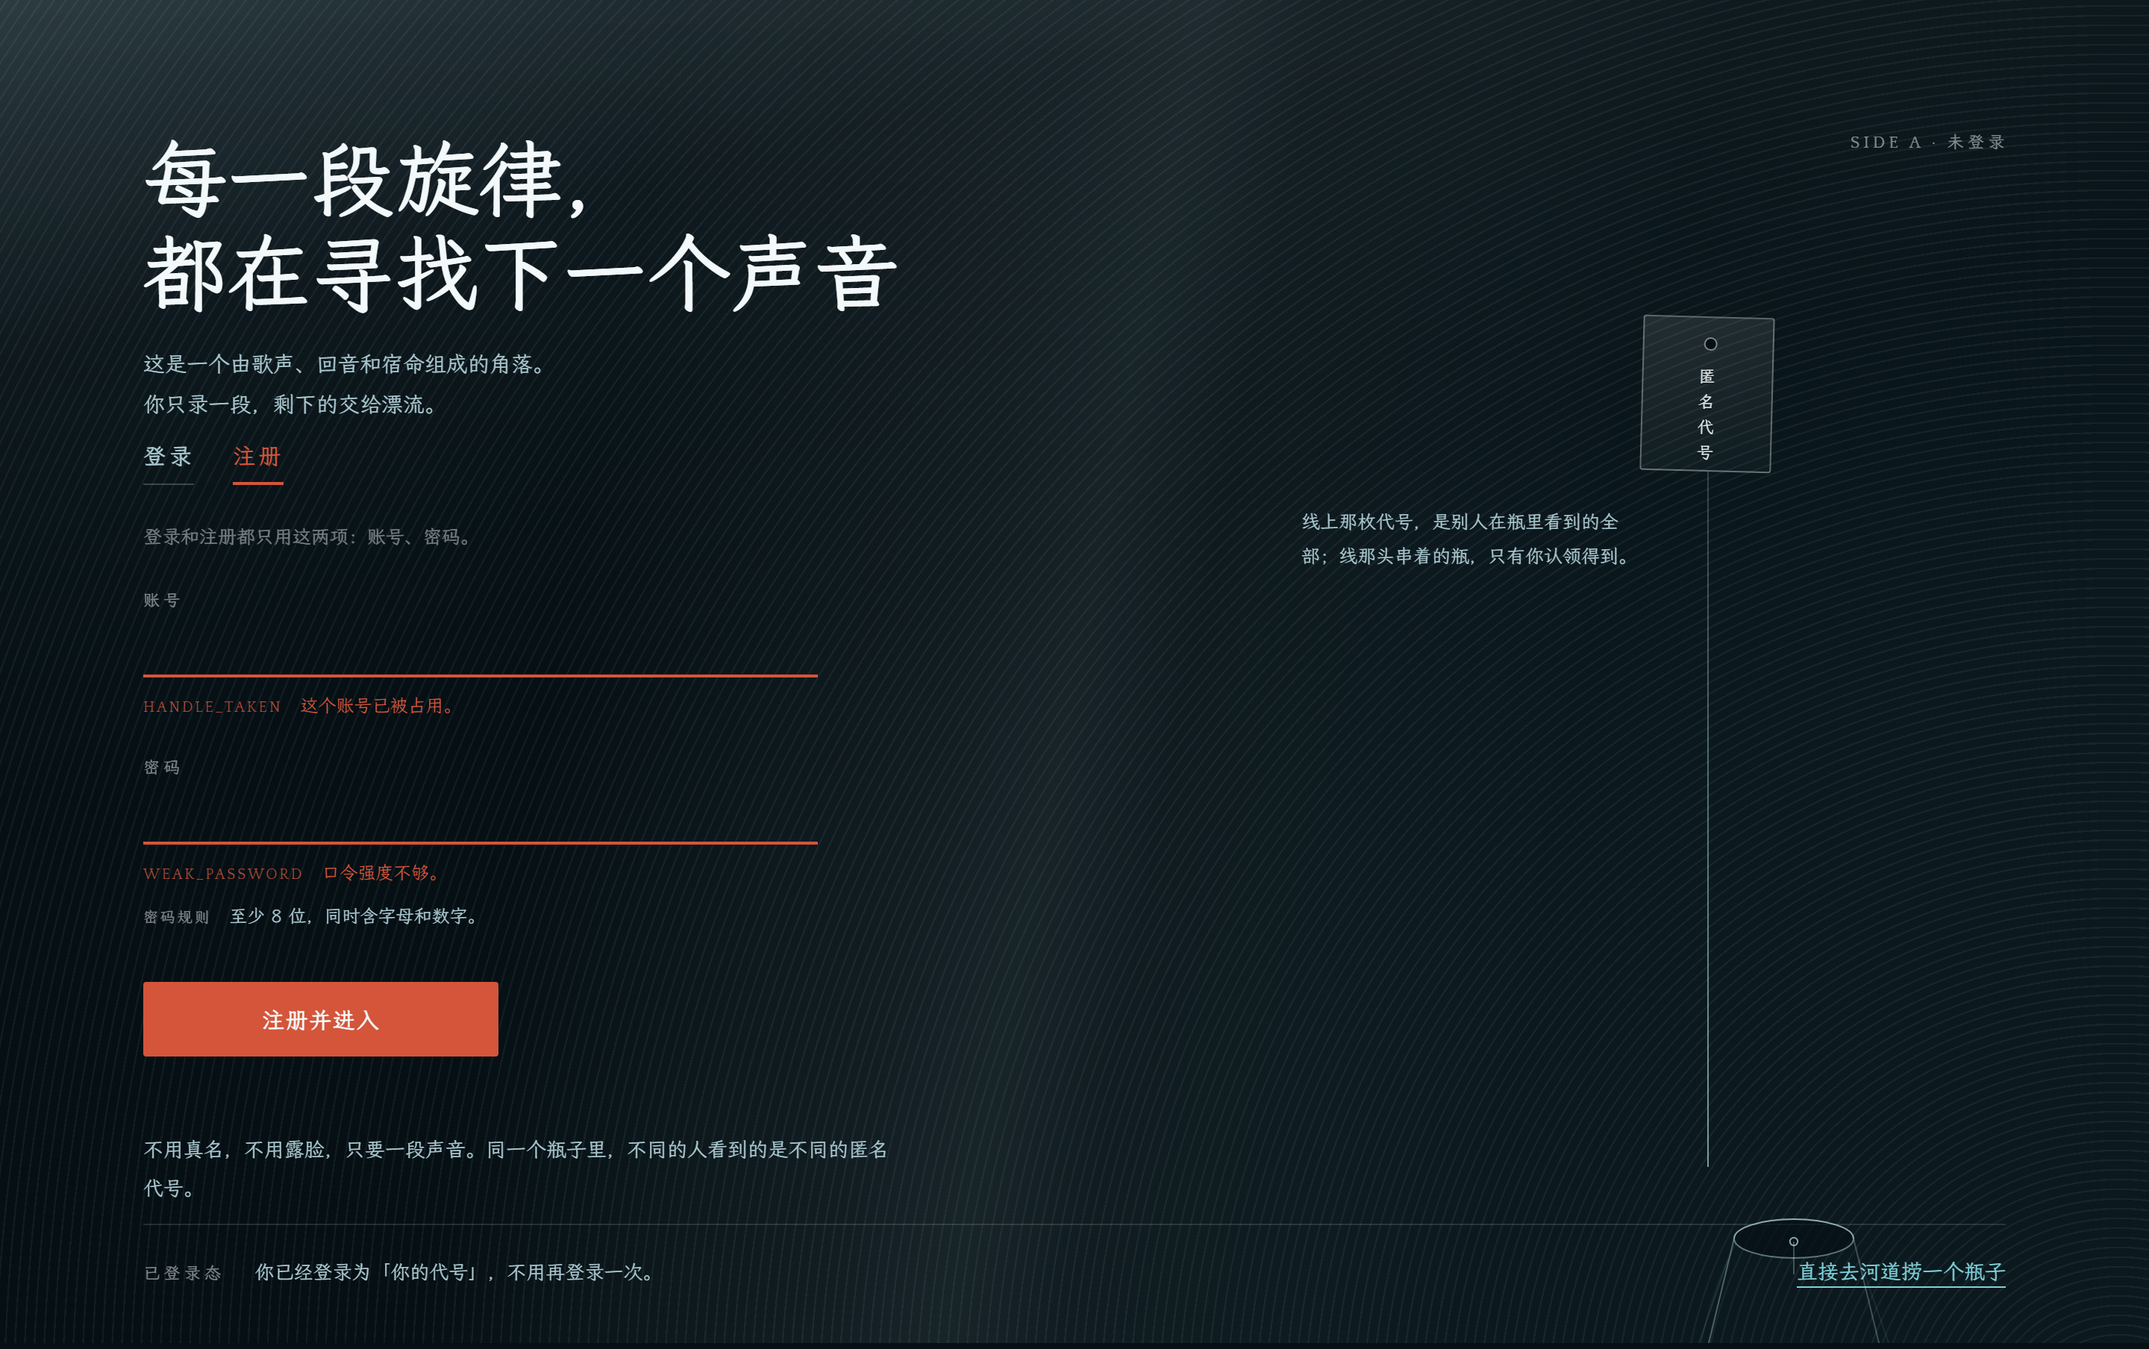
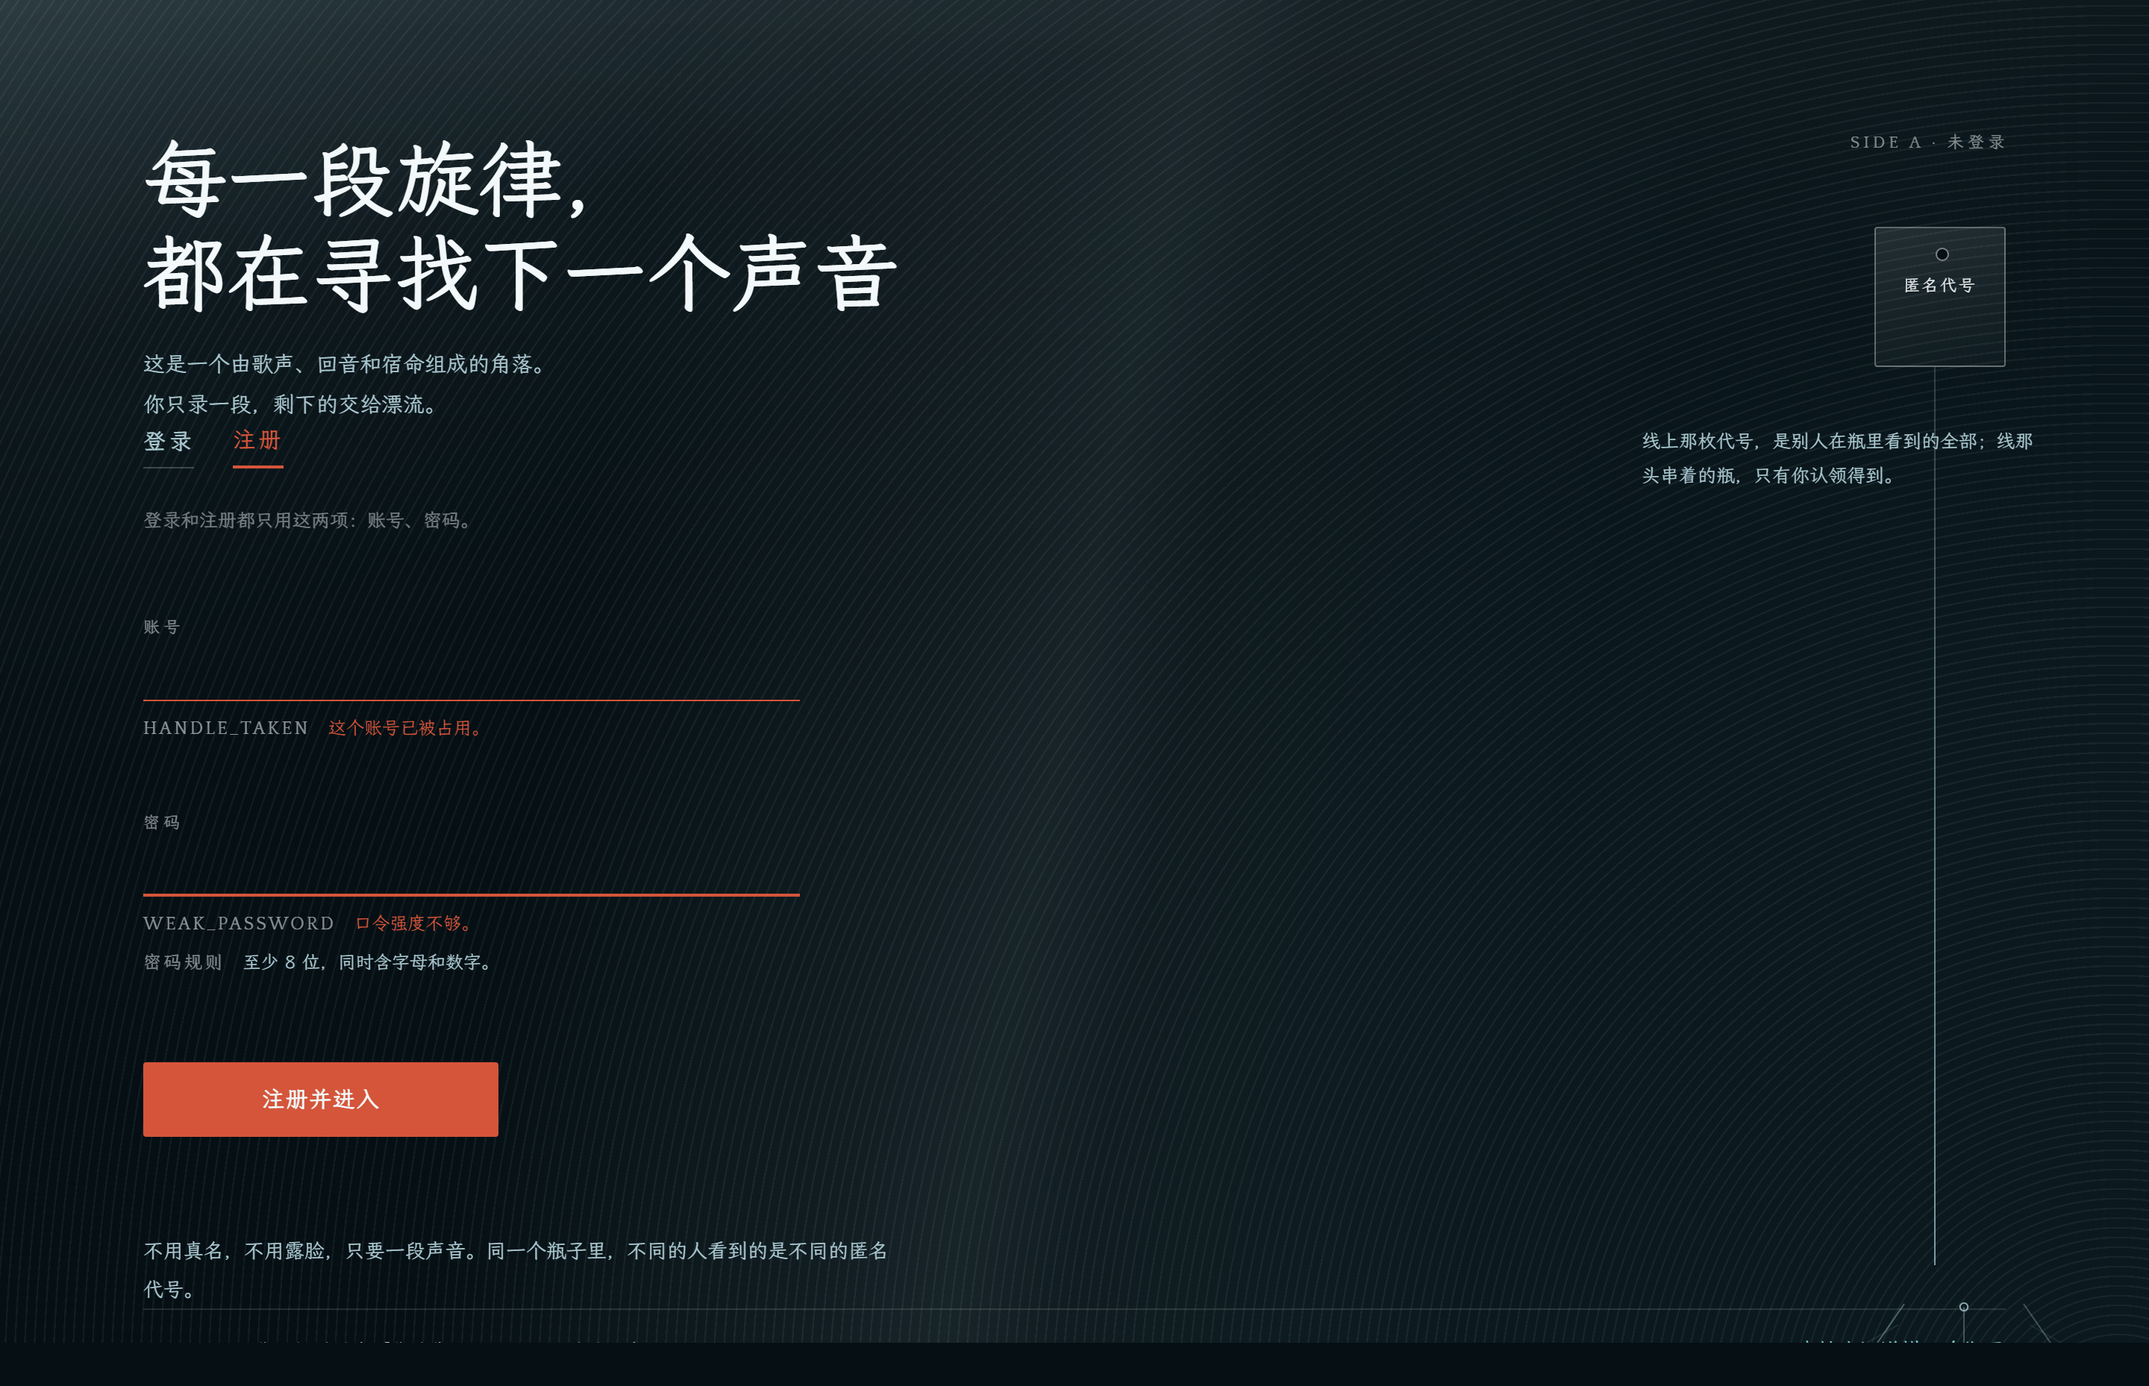
docs(design-explore): _AUDIT.md 补到当前状态（11 页逐页表 + 7 条决策 + 9 条遗留）+ 停止跟踪运行时锁文件
_AUDIT.md 是本次任务验收①（逐页对照）的落地物，之前停在『4 页对照』已失真。补入 11 页各自的装置与它编码什么信息、本阶段 7 条决策、以及 9 条未修但逐条可追溯的遗留（河道页三项冻结欠账、公海详情岸待做强、审核台两态同框、各页作者自陈并被 captain 认可的弱点）。

顺手修一个真问题：运行时锁文件 docs/ui-review/design-explore/.shoot.lock 被我早先的 git add -A 误提交进仓库（它是 _shoot.mjs 并发串行化用的临时文件，每次运行生成/删除）—— 现 git rm --cached 停止跟踪，并写进 .gitignore。

另记：写这份补录的脚本第一次跑挂了（SyntaxError）—— 因为我在 JS 模板串里直接放了未转义的 markdown 反引号。重写时逐行数组化，避免转义陷阱。

diff --git a/docs/ui-review/design-explore/p-login-record.html b/docs/ui-review/design-explore/p-login-record.html
@@ -42,50 +42,53 @@
       h1 { font-size:56px; font-weight:700; line-height:1.12; letter-spacing:.005em; }
       .lede { width:500px; margin-top:18px; font-size:14.5px; line-height:1.85; color:var(--muted); }
 
-      /* 装置：一根认领线。一枚代号牌坠在这根线的上端，线的另一头是只有你认领得到的东西 */
-      .device { position:absolute; left:968px; top:212px; width:300px; height:688px; }
-      .tag { position:absolute; left:132px; top:0; width:88px; height:104px; border-radius:2px;
-        border:1px solid rgba(243,249,250,.34); transform:rotate(1.5deg);
+      /* 装置：一根认领线。一枚代号牌坠在线头上，线的另一头是只有你认领得到的那只瓶 —— 
+         瓶只被画到画面的角上，读到的是"它在那儿"，不是"它长什么样"。 */
+      .device { position:absolute; left:1100px; top:152px; width:244px; height:748px; }
+      .tag { position:absolute; left:156px; top:0; width:88px; height:94px; border-radius:2px;
+        border:1px solid rgba(243,249,250,.34);
         background:linear-gradient(168deg, rgba(243,249,250,.11), rgba(243,249,250,.025)); }
       .tag::before { content:''; position:absolute; left:50%; top:13px; width:7px; height:7px; margin-left:-3.5px;
         border:1px solid rgba(243,249,250,.5); border-radius:50%; background:var(--ink); }
-      .tag b { position:absolute; left:50%; top:32px; width:16px; margin-left:-8px;
-        font-size:11px; font-weight:400; line-height:1.55; letter-spacing:.1em; text-align:center;
+      .tag b { position:absolute; left:50%; top:31px; width:88px; margin-left:-44px;
+        font-size:11px; font-weight:400; line-height:1.5; letter-spacing:.12em; text-align:center;
         color:rgba(243,249,250,.92); text-shadow:0 1px 0 rgba(5,15,20,.6); }
-      .thread { position:absolute; left:176px; top:104px; width:1px; height:466px;
-        background:linear-gradient(180deg, rgba(203,238,246,.2), rgba(203,238,246,.6)); }
-      .devnote { position:absolute; left:-96px; top:126px; width:236px; font-size:12.5px;
+      .thread { position:absolute; left:196px; top:94px; width:1px; height:602px;
+        background:linear-gradient(180deg, rgba(203,238,246,.18), rgba(203,238,246,.42) 40%, rgba(203,238,246,.6)); }
+      .devnote { position:absolute; left:0; top:132px; width:264px; font-size:12.5px;
         line-height:1.85; color:var(--muted); }
 
       /* 线的另一头：只露一角 —— 玻璃口沿（近唇亮、远唇暗）、瓶肩、栓在口里的线头 */
-      .mouth { position:absolute; left:1010px; top:784px; }
+      .mouth { position:absolute; left:1184px; top:848px; }
 
-      .form { display:flex; flex-direction:column; gap:24px; }
+      .form { display:flex; flex-direction:column; margin-top:auto; }
       .modes { display:flex; gap:26px; }
       .mode { padding:0 0 8px; font-family:inherit; font-size:15px; font-weight:700; letter-spacing:.14em;
         color:var(--muted); background:transparent; border:0;
         border-bottom:1px solid rgba(243,249,250,.22); cursor:pointer; }
       .mode.on { color:var(--coral); border-bottom:2px solid var(--coral); }
-      .tip { max-width:452px; font-size:12.5px; line-height:1.8; color:rgba(243,249,250,.46); }
+      .tip { max-width:452px; margin-top:24px; font-size:12.5px; line-height:1.8; color:rgba(243,249,250,.46); }
 
-      .field { display:flex; flex-direction:column; gap:9px; }
-      .field input { width:452px; height:32px; padding:0 1px 6px; font-family:inherit; font-size:16px;
+      .field { display:flex; flex-direction:column; }
+      .f-handle { margin-top:52px; }
+      .f-pass { margin-top:44px; }
+      .field input { width:440px; height:32px; margin-top:8px; padding:0 1px 6px; font-family:inherit; font-size:16px;
         color:var(--paper); background:transparent; border:0;
         border-bottom:1px solid rgba(243,249,250,.26); }
-      .msg { font-size:12px; line-height:1.7; color:var(--error); }
-      .msg .code { font-size:10px; letter-spacing:.14em; opacity:.82; }
-      .msg.bad { color:var(--coral); }
-      .field.bad input { border-bottom-width:2px; border-bottom-color:var(--coral); }
-      .hint { font-size:12px; line-height:1.7; color:var(--muted); }
-      .hint .code { font-size:10px; letter-spacing:.14em; color:rgba(243,249,250,.5); }
+      .msg { margin-top:8px; font-size:12px; line-height:1.7; color:var(--coral); }
+      .msg .code { letter-spacing:.14em; color:rgba(243,249,250,.56); }
+      .field.bad input { border-bottom-color:var(--coral); }
+      .field.strong input { border-bottom-width:2px; }
+      .hint { margin-top:4px; font-size:12px; line-height:1.7; color:var(--muted); }
+      .hint .code { letter-spacing:.14em; color:rgba(243,249,250,.5); }
 
-      .act { align-self:flex-start; margin-top:10px; width:238px; height:50px; padding:0;
+      .act { align-self:flex-start; margin-top:56px; width:238px; height:50px; padding:0;
         font-family:inherit; font-size:15px; font-weight:700; letter-spacing:.05em;
         color:var(--paper); background:var(--coral); border:0; border-radius:2px; cursor:pointer; }
-      .oath { margin-top:26px; width:500px; font-size:13.5px; line-height:1.9; color:var(--muted); }
+      .oath { margin-top:64px; width:508px; font-size:13.5px; line-height:1.9; color:var(--muted); }
 
-      .foot { margin-top:auto; padding-bottom:36px; border-top:1px solid var(--line); }
-      .foot .row { display:flex; align-items:baseline; gap:20px; padding-top:20px; }
+      .foot { margin-top:auto; padding-bottom:12px; border-top:1px solid var(--line); }
+      .foot .row { display:flex; align-items:baseline; gap:20px; padding-top:16px; }
       .foot .said { font-size:13px; color:var(--muted); }
       .go { margin-left:auto; font-size:14px; color:var(--glass);
         text-decoration:underline; text-underline-offset:5px; }
@@ -114,16 +117,16 @@
         </div>
         <p class="tip">登录和注册都只用这两项：账号、密码。</p>
 
-        <div class="field bad">
+        <div class="field f-handle bad">
           <label class="lbl meta" for="handle">账号</label>
           <input id="handle" name="handle" type="text" autocomplete="username" aria-invalid="true" aria-describedby="handle-err" />
-          <p class="msg bad" id="handle-err" role="alert"><span class="code meta">HANDLE_TAKEN</span>　这个账号已被占用。</p>
+          <p class="msg" id="handle-err" role="alert"><span class="code meta">HANDLE_TAKEN</span>　这个账号已被占用。</p>
         </div>
 
-        <div class="field bad">
+        <div class="field f-pass bad strong">
           <label class="lbl meta" for="password">密码</label>
           <input id="password" name="password" type="password" autocomplete="new-password" aria-invalid="true" aria-describedby="password-err password-hint" />
-          <p class="msg bad" id="password-err" role="alert"><span class="code meta">WEAK_PASSWORD</span>　口令强度不够。</p>
+          <p class="msg" id="password-err" role="alert"><span class="code meta">WEAK_PASSWORD</span>　口令强度不够。</p>
           <p class="hint" id="password-hint"><span class="code meta">密码规则</span>　至少 8 位，同时含字母和数字。</p>
         </div>
 
@@ -137,27 +140,20 @@
         <p class="devnote">线上那枚代号，是别人在瓶里看到的全部；线那头串着的瓶，只有你认领得到。</p>
       </div>
 
-      <svg class="mouth" width="380" height="120" viewBox="0 0 380 120" fill="none" aria-hidden="true">
-        <defs>
-          <linearGradient id="water" x1="54" y1="14" x2="330" y2="104" gradientUnits="userSpaceOnUse">
-            <stop offset="0" stop-color="#cbeef6" stop-opacity=".13" />
-            <stop offset=".44" stop-color="#7fd1d9" stop-opacity=".05" />
-            <stop offset="1" stop-color="#cbeef6" stop-opacity=".1" />
-          </linearGradient>
-        </defs>
-        <!-- 瓶肩：口沿以下只留两侧的玻璃壁，中间不画，避免出现任何横贯的线 -->
-        <path d="M152 46 L134 120" stroke="#cbeef6" stroke-opacity=".34" />
-        <path d="M232 46 L250 120" stroke="#cbeef6" stroke-opacity=".26" />
-        <path d="M148 60 L127 120" stroke="#cbeef6" stroke-opacity=".1" />
-        <path d="M236 60 L257 120" stroke="#cbeef6" stroke-opacity=".08" />
-        <!-- 玻璃口：暗的开口；近唇在口沿之上，线头从这里进去 -->
-        <ellipse cx="192" cy="46" rx="40" ry="13" fill="rgba(3,14,20,.6)" />
-        <ellipse cx="192" cy="46" rx="40" ry="13" stroke="#cbeef6" stroke-opacity=".2" />
-        <path d="M152 46 A40 13 0 0 1 232 46" stroke="#cbeef6" stroke-opacity=".6" />
-        <path d="M232 46 A40 13 0 0 1 152 46" stroke="#cbeef6" stroke-opacity=".3" />
+      <svg class="mouth" width="200" height="52" viewBox="0 0 200 52" fill="none" aria-hidden="true">
+        <!-- 瓶肩：口沿以下只留两侧玻璃壁，中间不画 —— 全页没有一条横贯的线 -->
+        <path d="M92 26 L74 52" stroke="#cbeef6" stroke-opacity=".34" />
+        <path d="M172 26 L190 52" stroke="#cbeef6" stroke-opacity=".26" />
+        <path d="M88 40 L67 52" stroke="#cbeef6" stroke-opacity=".1" />
+        <path d="M176 40 L197 52" stroke="#cbeef6" stroke-opacity=".08" />
+        <!-- 玻璃口：暗的开口；近唇亮、远唇暗，只露这半边 */
+        <ellipse cx="132" cy="26" rx="40" ry="13" fill="rgba(3,14,20,.6)" />
+        <ellipse cx="132" cy="26" rx="40" ry="13" stroke="#cbeef6" stroke-opacity=".2" />
+        <path d="M92 26 A40 13 0 0 1 172 26" stroke="#cbeef6" stroke-opacity=".62" />
+        <path d="M172 26 A40 13 0 0 1 92 26" stroke="#cbeef6" stroke-opacity=".32" />
         <!-- 口里的线头：认领线终止在这只瓶里 -->
-        <path d="M192 48 L192 70" stroke="#cbeef6" stroke-opacity=".28" />
-        <circle cx="192" cy="48" r="2.6" stroke="#cbeef6" stroke-opacity=".66" />
+        <path d="M132 28 L132 52" stroke="#cbeef6" stroke-opacity=".28" />
+        <circle cx="132" cy="28" r="2.6" stroke="#cbeef6" stroke-opacity=".66" />
       </svg>
 
       <div class="foot">

diff --git a/docs/ui-review/design-explore/_AUDIT.md b/docs/ui-review/design-explore/_AUDIT.md
@@ -83,3 +83,47 @@
 1. 任务书必须**逐字列出可写文件名单**，并要求 agent 自报**「我改动的文件清单」**（而不是「我只改了 X」）。
 2. captain 复核**一律用 `git diff` 核对改动面**，不只信自述 —— 本例正是靠 diff 才发现「只改颜色」不实。
 3. **并发期间禁止 `git add -A`**：此前已因它出过一次事故（把别人正在写的 §7 水下版半成品扫进提交，导致一次「回滚到半成品」的误回滚）。
+
+---
+
+## 6. 当前全站状态（11 页）· 决策 · 遗留清单
+
+> 交付记录：captain 逐张亲眼看过图（read_image），不采信 agent 自述。
+> 判据：`_shoot.mjs` 报 `1440x900 ✓ 一屏内`（**以 PNG 实际像素为准**，不是 `scrollHeight`）+ `_guard.mjs` 逐文件通过。
+
+### 6.1 逐页（装置 / 它编码什么信息 / 状态）
+| 页 | 文件 | 装置 | 状态 |
+| --- | --- | --- | --- |
+| 河道（标杆） | `f4-groove.html` | 唱片质感 + 被点亮的沟槽＝河道；两个错落圆泊位 | **定稿冻结**（用户指认 D，sha256 `DEF4727…B3208`） |
+| 选一首歌 | `p-songpicker-record.html` | 水渠里的母版；水位＝已切好的段位、干槽＝「还没有切分」 | 去重改造中 |
+| 瓶子详情 | `p-bottle-record.html` | **横躺的玻璃瓶**：瓶内水位＝已录段数、干格＝缺口、漂着的瓶塞＝有人持有 | 用户点名「做得非常好」 |
+| 登录 / 注册 | `p-login-record.html` | 封套 + 抽出唱片 + **认领线** | 按「太繁杂」打回改造中 |
+| 公海大厅 | `p-sea-hall.html` | **静海水线 + 六支到岸的瓶**；涟漪内圈 4 段断弧＝4 个段位（断＝缺口） | 推倒重做后交付 |
+| 公海作品详情 | `p-sea-detail-record.html` | 沟槽＝时间轴（唱针＝播放头）+ **右端岸与到岸的空瓶** + **倒影＝唱这一段的人** | 交付；岸待做强 |
+| 漂流日志 | `p-driftlog-record.html` | **半沉螺旋刻痕**（11 道＝11 条日志）+ **只有最新一笔是湿的** | 去重后交付 |
+| 我的 | `p-profile-record.html` | 内袋身份卡 + **每格一根沉积柱**（4 层位＝4 段位；被斩＝层位还在、内容挖空） | 去重后交付 |
+| 审核台 | `s2-admin-record.html` | **水线切开**浮上来的待处理／沉下去的历史裁决 + **真印章**（断墨+二次压印+各自旋转角） | 交付 |
+| 设置 | `p-settings-record.html` | **内袋折页 + 水线切开「匿名的边界」**（线上别人看得到／线下只有你知道） | 交付 |
+| 404 | `p-404-record.html` | **划伤跳针**：划痕横断标题、豁口写「这条水路不存在」+ 断流与漂走的瓶 | 交付 |
+
+### 6.2 本阶段成立的决策
+1. **主题配比 v2（§7）**：每页至少一个水/河/瓶装置且**必须承担信息**；唱片元素不得过半页权重；目标是「唱片落在水里」。
+2. **水线只留两页**（用户裁决）：设置（匿名边界）、审核台（浮上来／沉下去）；其余页换别的水/瓶形态 —— 已对选歌/日志/我的执行。
+3. **珊瑚提亮**：`--coral` 由 `#c7452c`（3.98:1，低于契约 4.5:1）提到 `#d4553a`（约 4.9:1）。
+4. **h1 例外**：页面主标题 56–62px；标杆页（河道）允许 76–84px。
+5. **登录只用两项（账号·密码）**：用户裁决；**与源码有意偏离**（源码登录/注册都传 email），实现依赖已写进契约 §3。
+6. **声明必须绑定字节**：汇报给出 `sha256`，且验证跑在该哈希对应的一份上。
+7. **并发期间禁止 `git add -A`**（已因它出过一次误回滚事故）。
+
+### 6.3 遗留清单（未修，逐条可追溯）
+| # | 遗留 | 归属 |
+| --- | --- | --- |
+| 1 | 河道页三项契约欠账：旧珊瑚 `#c7452c`、无 `.clip`、缺 `--warm` | 用户要求冻结不修，守卫标明「已知欠账」 |
+| 2 | 公海详情「岸」偏弱（靠 11px 标注撑「到岸」） | 用户裁决「保留但把岸做强」，**尚未派** |
+| 3 | 审核台把源码里互斥的两个 Tab 画进同一帧（靠水线分隔） | 若要当状态交付稿需拆两帧或加「已归档」标记 |
+| 4 | 漂流日志那汪水孤悬盘沿、底下没有「地」；「干刻痕」是缺席式证据 | 作者自陈，captain 认可 |
+| 5 | 我的沉积柱仅 50px 宽，四等高层位有被读成「进度条」的风险 | 作者自陈，captain 认可 |
+| 6 | 瓶子详情水线以上 180px 是「安静的空气」 | 作者自陈 |
+| 7 | 设置「湿纸透光＝背后是唱片」目前读不出来（湿区沟槽对比约 0.04） | 作者自陈 |
+| 8 | 选歌仍能读出「5 列文字+按钮压在水上」的表格骨架 | 作者自陈 |
+| 9 | 登录页「横躺的瓶」与瓶子详情同族装置 | 已并入打回改造任务书 |
